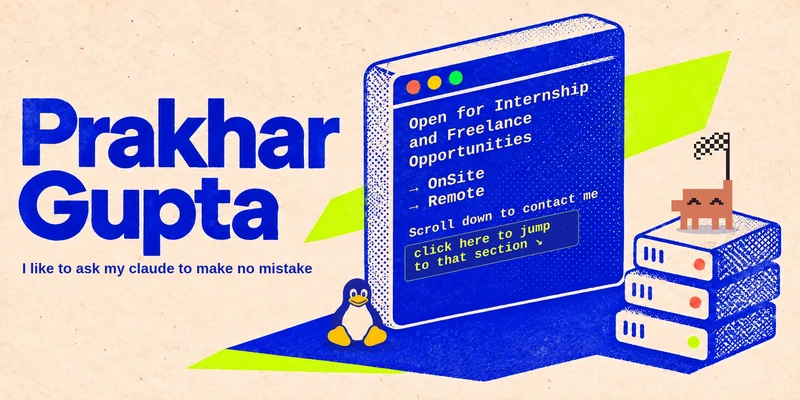
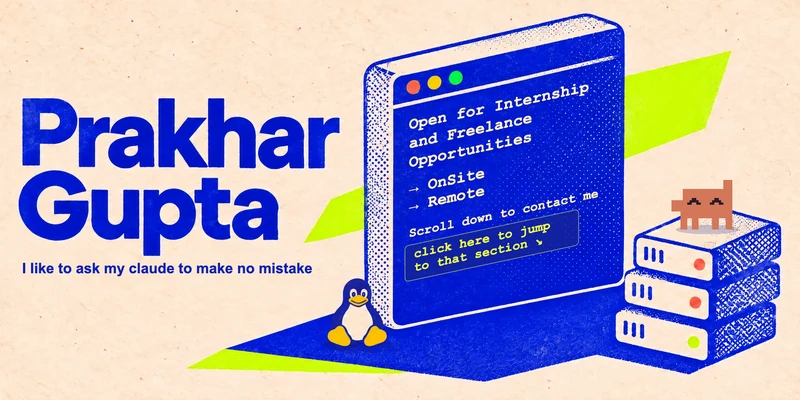
Keep Clawd blinking without a flag

diff --git a/README.md b/README.md
@@ -6,8 +6,8 @@
 </div>
 <div>
   <a href="#user-content-profile-contact"><picture>
-    <source media="(max-width: 600px)" srcset="https://raw.githubusercontent.com/prx-my/prx-my/main/profile-assets/hero-mobile.webp?v=da55e28fca">
-    <source media="(min-width: 601px) and (hover: hover) and (pointer: fine) and (prefers-reduced-motion: no-preference)" srcset="https://raw.githubusercontent.com/prx-my/prx-my/main/profile-assets/hero.motion.svg?v=ef9a7627df"><img src="profile-assets/hero.webp?v=d7316a69b6" width="100%" align="top" alt="Prakhar Gupta. I like to ask my claude to make no mistake. Open for Internship and Freelance Opportunities, OnSite or Remote. Tux sits by the terminal and Clawd waves a flag from the server rack. Jump to contact.">
+    <source media="(max-width: 600px)" srcset="https://raw.githubusercontent.com/prx-my/prx-my/main/profile-assets/hero-mobile.webp?v=f25cf57aba">
+    <source media="(min-width: 601px) and (hover: hover) and (pointer: fine) and (prefers-reduced-motion: no-preference)" srcset="https://raw.githubusercontent.com/prx-my/prx-my/main/profile-assets/hero.motion.svg?v=3cda3cc2ba"><img src="profile-assets/hero.webp?v=1caa126587" width="100%" align="top" alt="Prakhar Gupta. I like to ask my claude to make no mistake. Open for Internship and Freelance Opportunities, OnSite or Remote. Tux sits by the terminal and Clawd blinks from the server rack. Jump to contact.">
   </picture></a>
 </div>
 <div>
